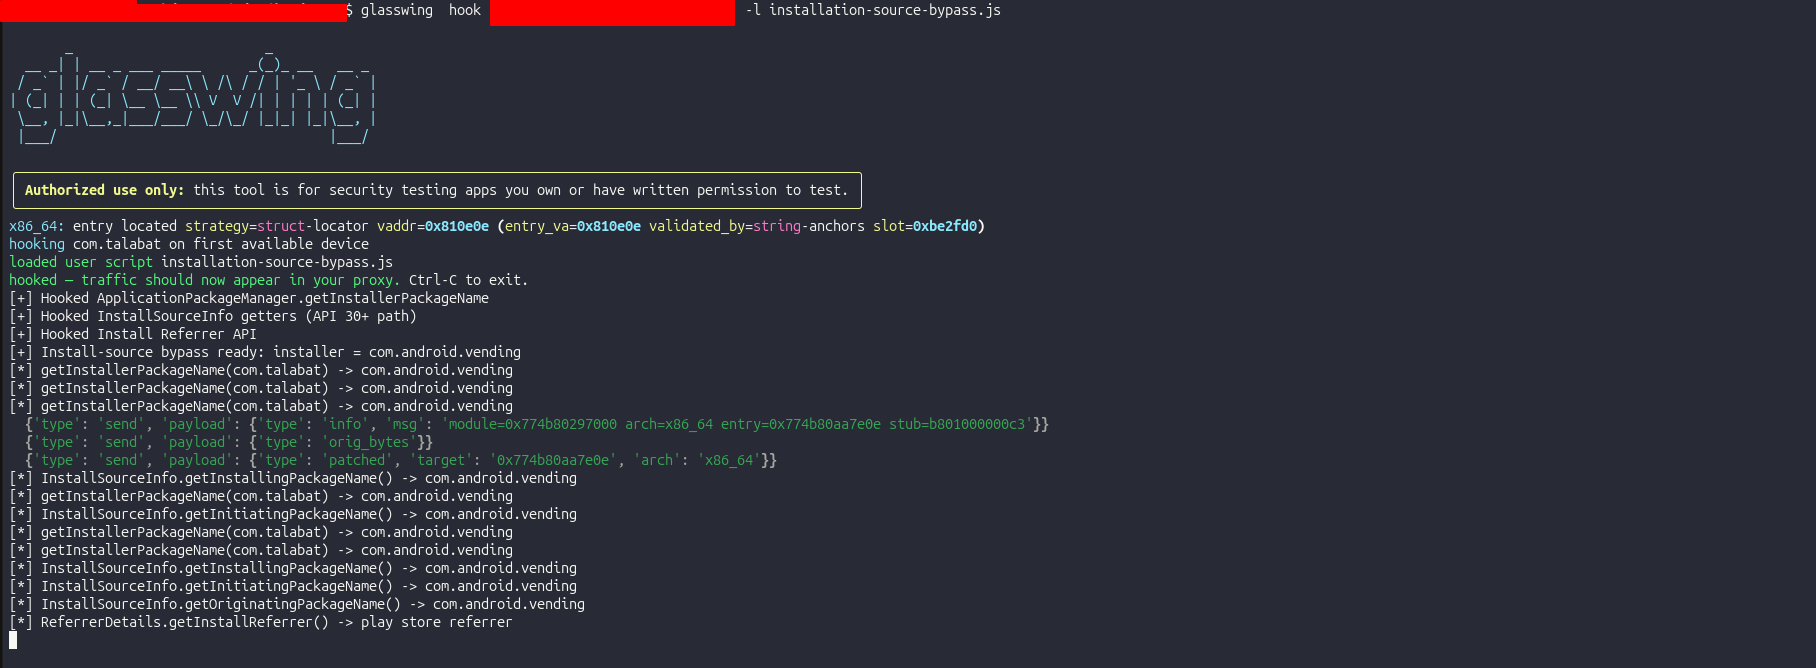
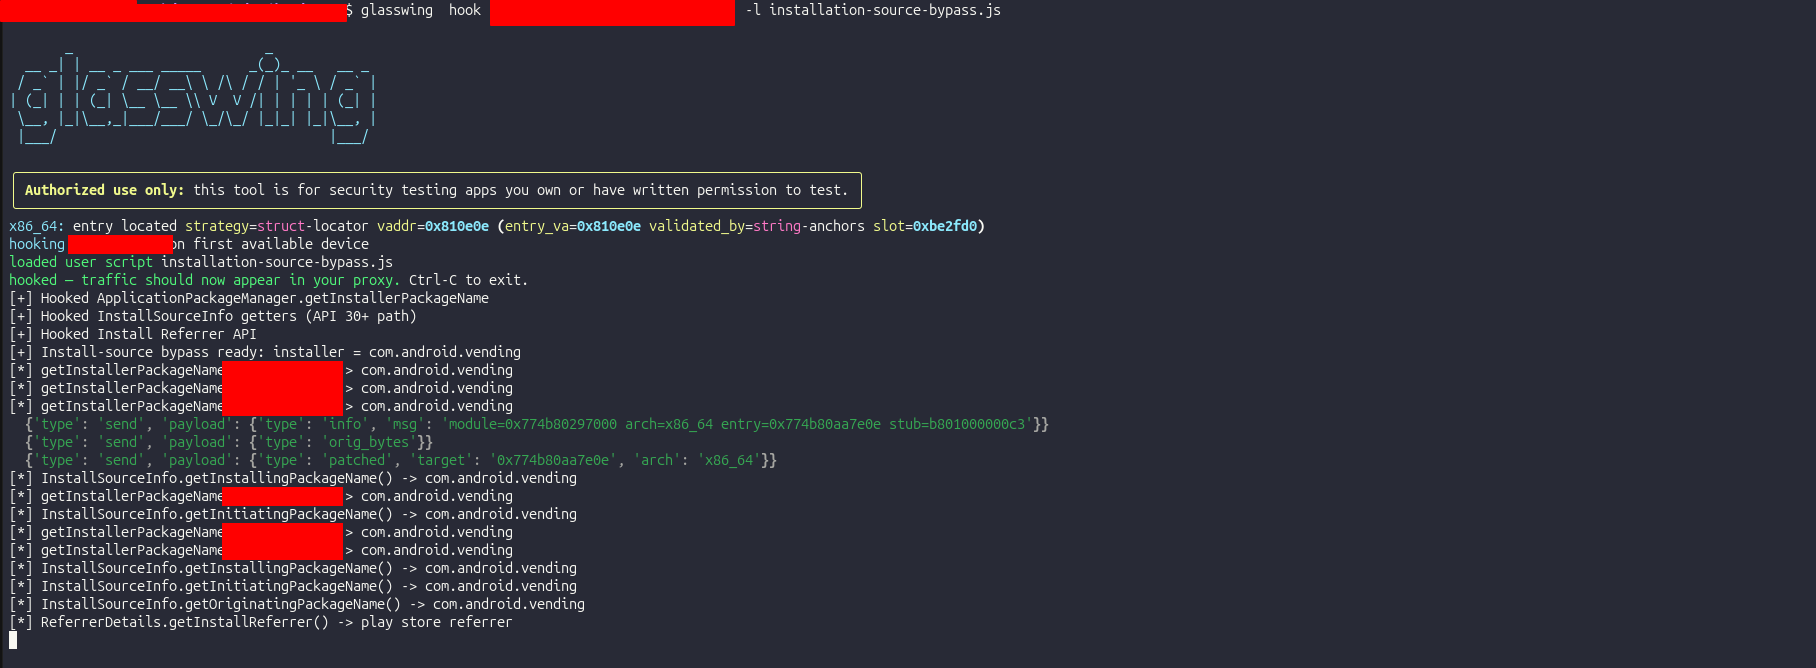
privacy: scrub app names from README text and redact screenshots (hook session, Burp traffic, inspect table)

Changed region(s): [[0.1233, 0.7186, 0.2159, 0.8383], [0.1233, 0.5389, 0.2159, 0.6287], [0.0308, 0.3293, 0.0925, 0.3892]]

diff --git a/README.md b/README.md
@@ -121,7 +121,7 @@ The same run, seen from the other side — the app's **Flutter `dart:io` traffic
 fully decrypted** in Burp Suite (`User-Agent: Dart/3.11 (dart:io)`), while the app
 works normally:
 
-<img src="images/runtime-hook-burp-traffic.png" alt="Decrypted Talabat dart:io traffic in Burp Suite after glasswing hook" width="100%">
+<img src="images/runtime-hook-burp-traffic.png" alt="Decrypted dart:io traffic in Burp Suite after glasswing hook" width="100%">
 
 </div>
 
@@ -150,9 +150,9 @@ Every claim below was reproduced on Android emulators against a hostile HTTPS se
 | pinnedprobe (test corpus) | 3.47.7 | static patch | `HTTP 200` ✅ |
 | pinnedprobe | 3.47.7 | Frida runtime hook | `HTTP 200` ✅ |
 | pinnedprobe | 3.47.7 | static patch on **rootless production build** | `HTTP 200` ✅ |
-| Saber (F-Droid, real app) | 3.47.5 | static patch | Dart HTTP client intercepted ✅ |
+| Production app A (F-Droid, real app) | 3.47.5 | static patch | Dart HTTP client intercepted ✅ |
 | Flutter engine artifacts | 3.44.9 & 3.47.x | offline locate + patch roundtrip | all 3 ABIs ✅ |
-| Butterfly, ente auth (F-Droid) | 3.4x | static patch | locator + patch verified ✅ |
+| Two production apps (F-Droid) | 3.4x | static patch | locator + patch verified ✅ |
 | Control (unpatched) | — | — | `CERTIFICATE_VERIFY_FAILED` ✅ |
 
 ### Head-to-head: Glasswing vs reFlutter
@@ -163,7 +163,7 @@ patch either one:
 | Test | reFlutter | Glasswing |
 |---|---|---|
 | **1** — x86_64 Flutter app (Dart 3.13) | ❌ refuses: *"There was no libapp.so (Android)… Make sure there is arm64-v8a/libapp.so in the package"* | ✅ located via struct-locator, patched, re-signed (`signature verified: True`) → `dart:io` traffic decrypted in Burp (`User-Agent: Dart/3.13 (dart:io)`) |
-| **2** — Skandia, x86_64, Dart version not detectable | ❌ same refusal | ✅ located via struct-locator, patched → `/mobile/external/mobile-content/api/v1/Content` decrypted, `app-framework: flutter` visible |
+| **2** — x86_64 Flutter app, Dart version not detectable | ❌ same refusal | ✅ located via struct-locator, patched → `/mobile/external/mobile-content/api/v1/Content` decrypted, `app-framework: flutter` visible |
 
 Why: reFlutter keys its patch on finding `arm64-v8a/libapp.so` (and engine-version
 assumptions); an APK that ships another ABI or hides the version string gets
@@ -179,11 +179,11 @@ refused. Glasswing never reads `libapp.so` — it locates the verify function in
   <img src="images/comparison-test1-glasswing-traffic.png" alt="Decrypted dart:io traffic in Burp: User-Agent Dart/3.13 (dart:io)" width="86%">
 </div>
 
-**Test 2 — same refusal from reFlutter; Skandia patched and decrypted:**
+**Test 2 — same refusal from reFlutter; the app patched and decrypted:**
 
 <div align="center">
   <img src="images/comparison-test2-reflutter-fail.png" alt="reFlutter refuses again: same libapp.so error" width="49%">
-  <img src="images/comparison-test2-glasswing-patch.png" alt="glasswing inspect + patch of skandia.apk: struct-locator hit" width="49%">
+  <img src="images/comparison-test2-glasswing-patch.png" alt="glasswing inspect + patch: struct-locator hit" width="49%">
   <br>
   <img src="images/comparison-test2-glasswing-traffic.png" alt="Decrypted traffic in Burp: app-framework flutter, HTTP/2 200" width="86%">
 </div>
